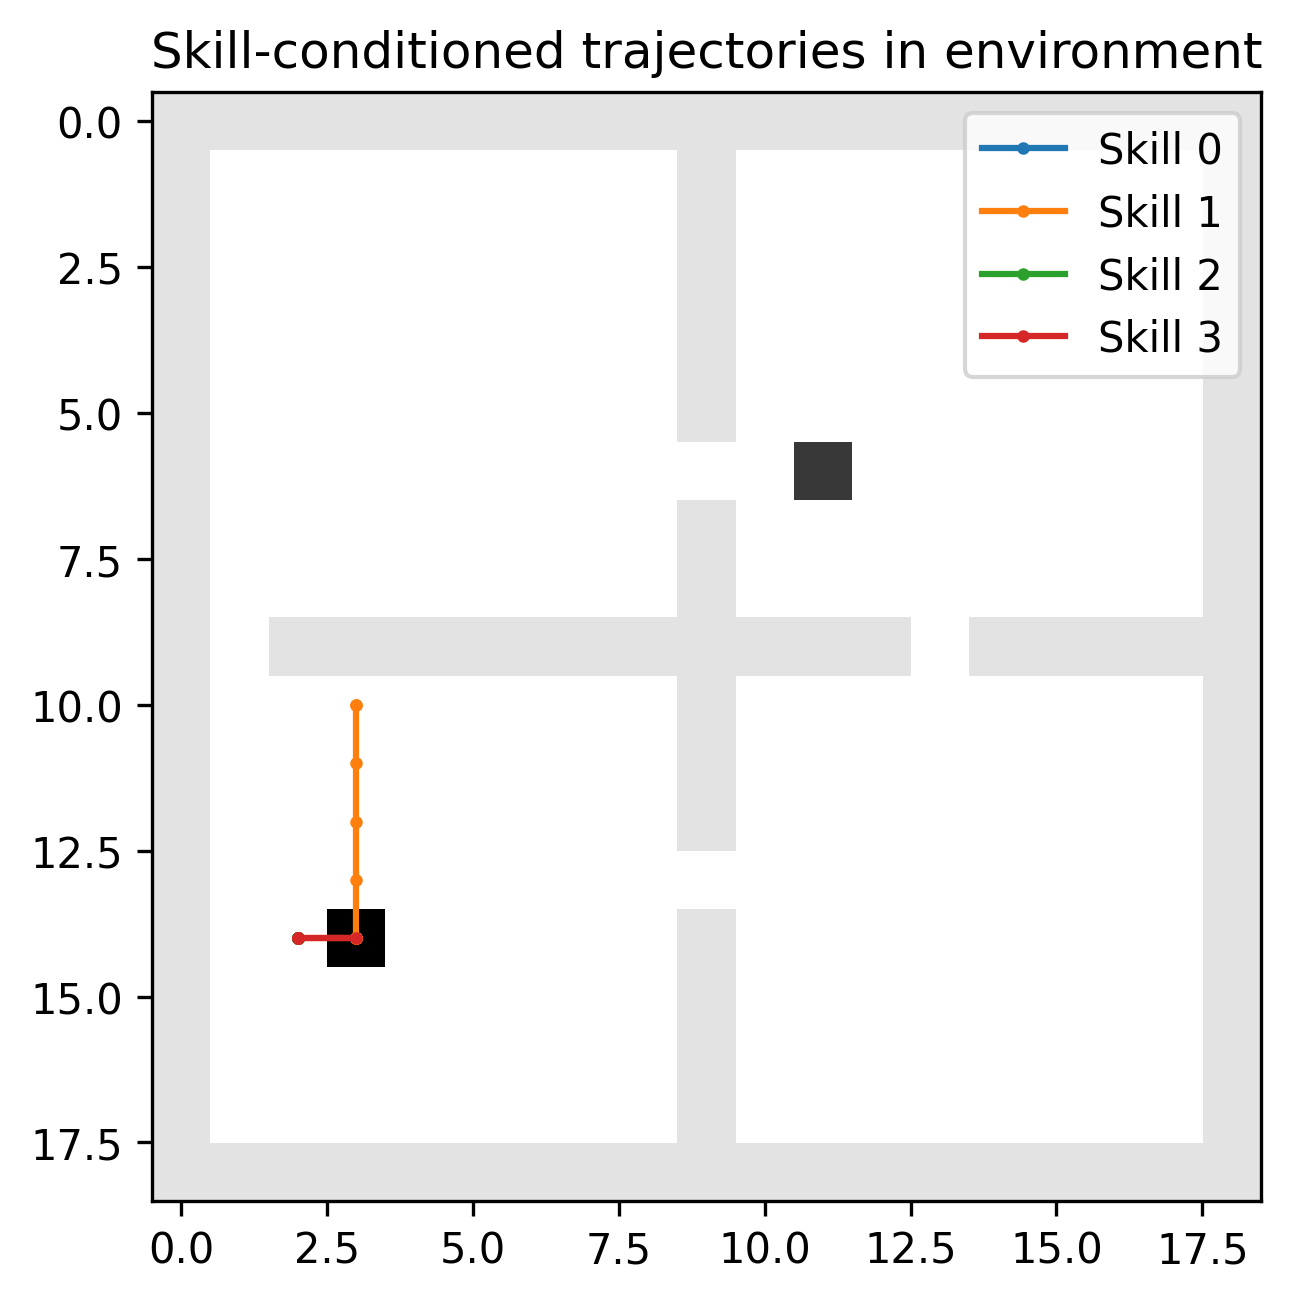
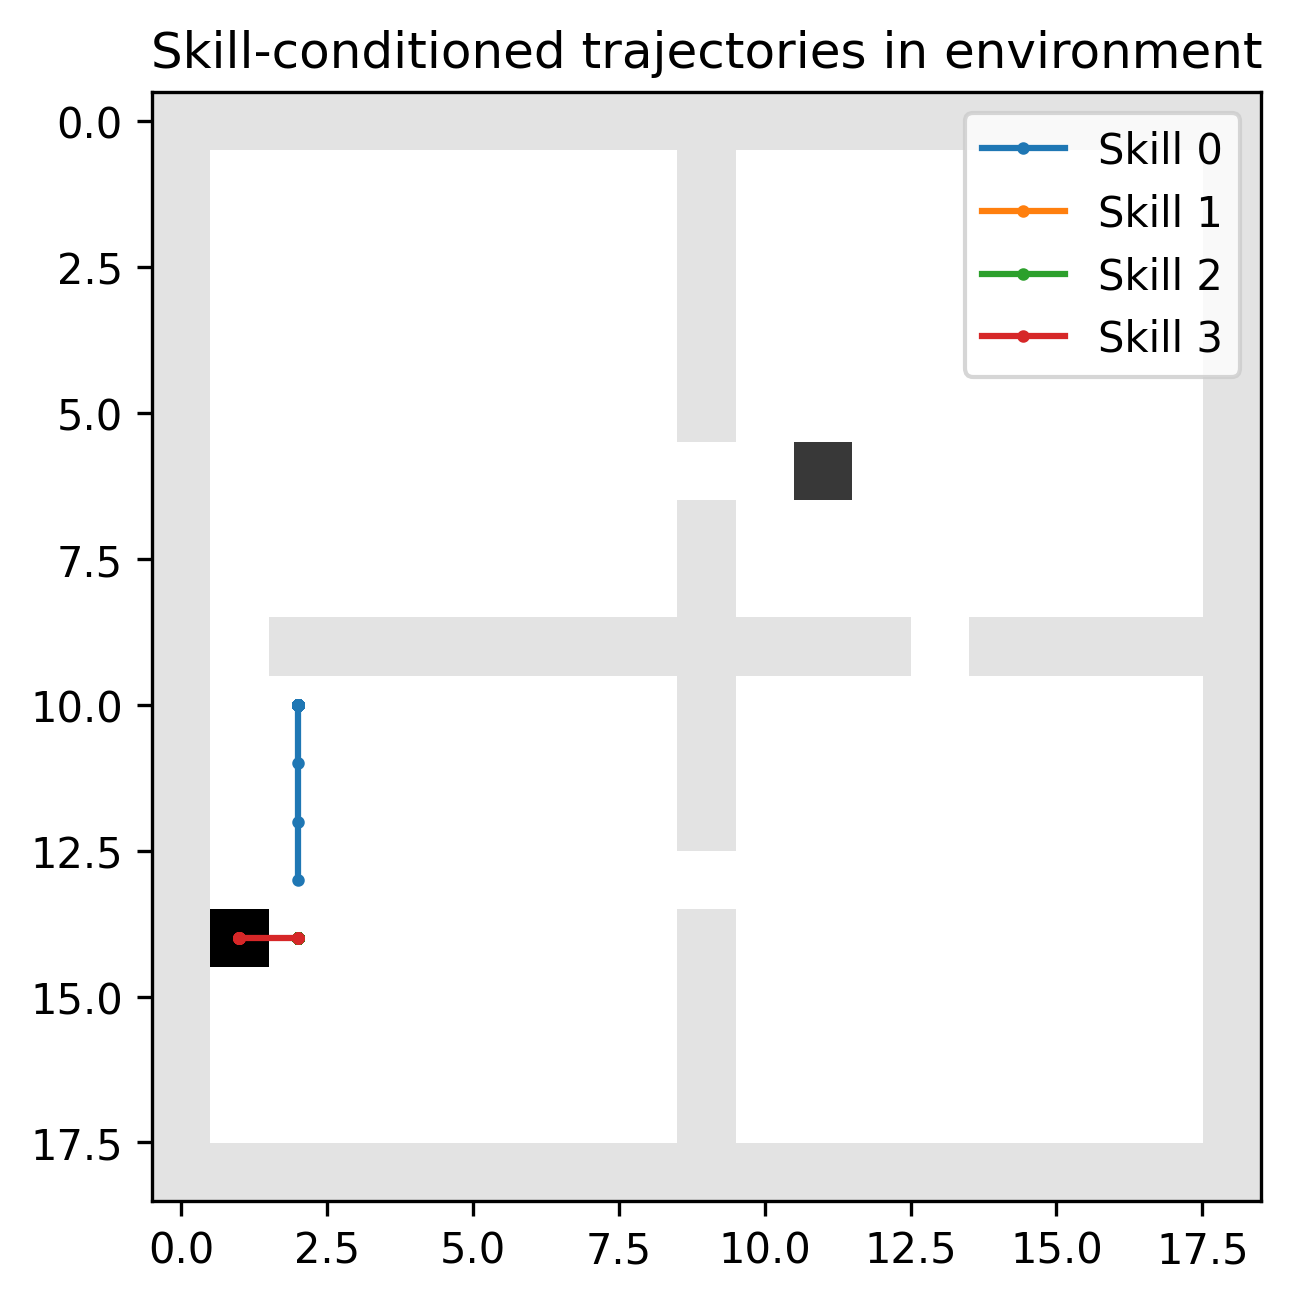
reward offset changes and hyper setting

Changed region(s): [[0.1548, 0.5223, 0.3096, 0.768]]

diff --git a/pufferlib/pufferl.py b/pufferlib/pufferl.py
@@ -385,9 +385,9 @@ class PuffeRL:
                 r_intr = torch.zeros_like(self.rewards, device=device) #B,S
                 step_rewards = (delta_phi*z).sum(dim=-1) #B,S  Normalise to S do we need this? its not in paper
                 step_rewards = torch.clamp(step_rewards, -1, 1)
-                r_intr[:,1:] = step_rewards
+                r_intr[:,:-1] = step_rewards
 
-                self.rewards = r_intr
+                self.rewards = r_intr.detach()
             
                 #detach?
 
@@ -482,7 +482,6 @@ class PuffeRL:
                 phi = phi.reshape(B,S,-1 ) #B,S,D
                 delta_phi = phi[:,1:,:] - phi[:,:-1,:] #B,S-1,D
                 z = mb_skills[:,:-1,:] #B,skill_dim
-
                 enc_loss = -(delta_phi*z).sum(dim=-1) #B,S-1
                 
                 constraint = 1- delta_phi.pow(2).sum(dim=-1) #B,S-1

diff --git a/pufferlib/models.py b/pufferlib/models.py
@@ -21,7 +21,7 @@ class Default(nn.Module):
     the recurrent cell into encode_observations and put everything after
     into decode_actions.
     '''
-    def __init__(self, env, hidden_size=128, phi_dim=2):
+    def __init__(self, env, hidden_size=128, phi_dim=2, inital_lambda = 30.0):
         super().__init__()
         self.hidden_size = hidden_size
         self.phi_dim = phi_dim
@@ -87,7 +87,8 @@ class Default(nn.Module):
         )
 
         #lamda initialization
-        self.log_lambda = torch.nn.Parameter(torch.tensor(0.0))
+        self.log_lambda = torch.log(torch.tensor(inital_lambda))
+        self.log_lambda = torch.nn.Parameter(self.log_lambda)
         self.lambda_opt = torch.optim.Adam([self.log_lambda], lr=1e-3)
 
 
